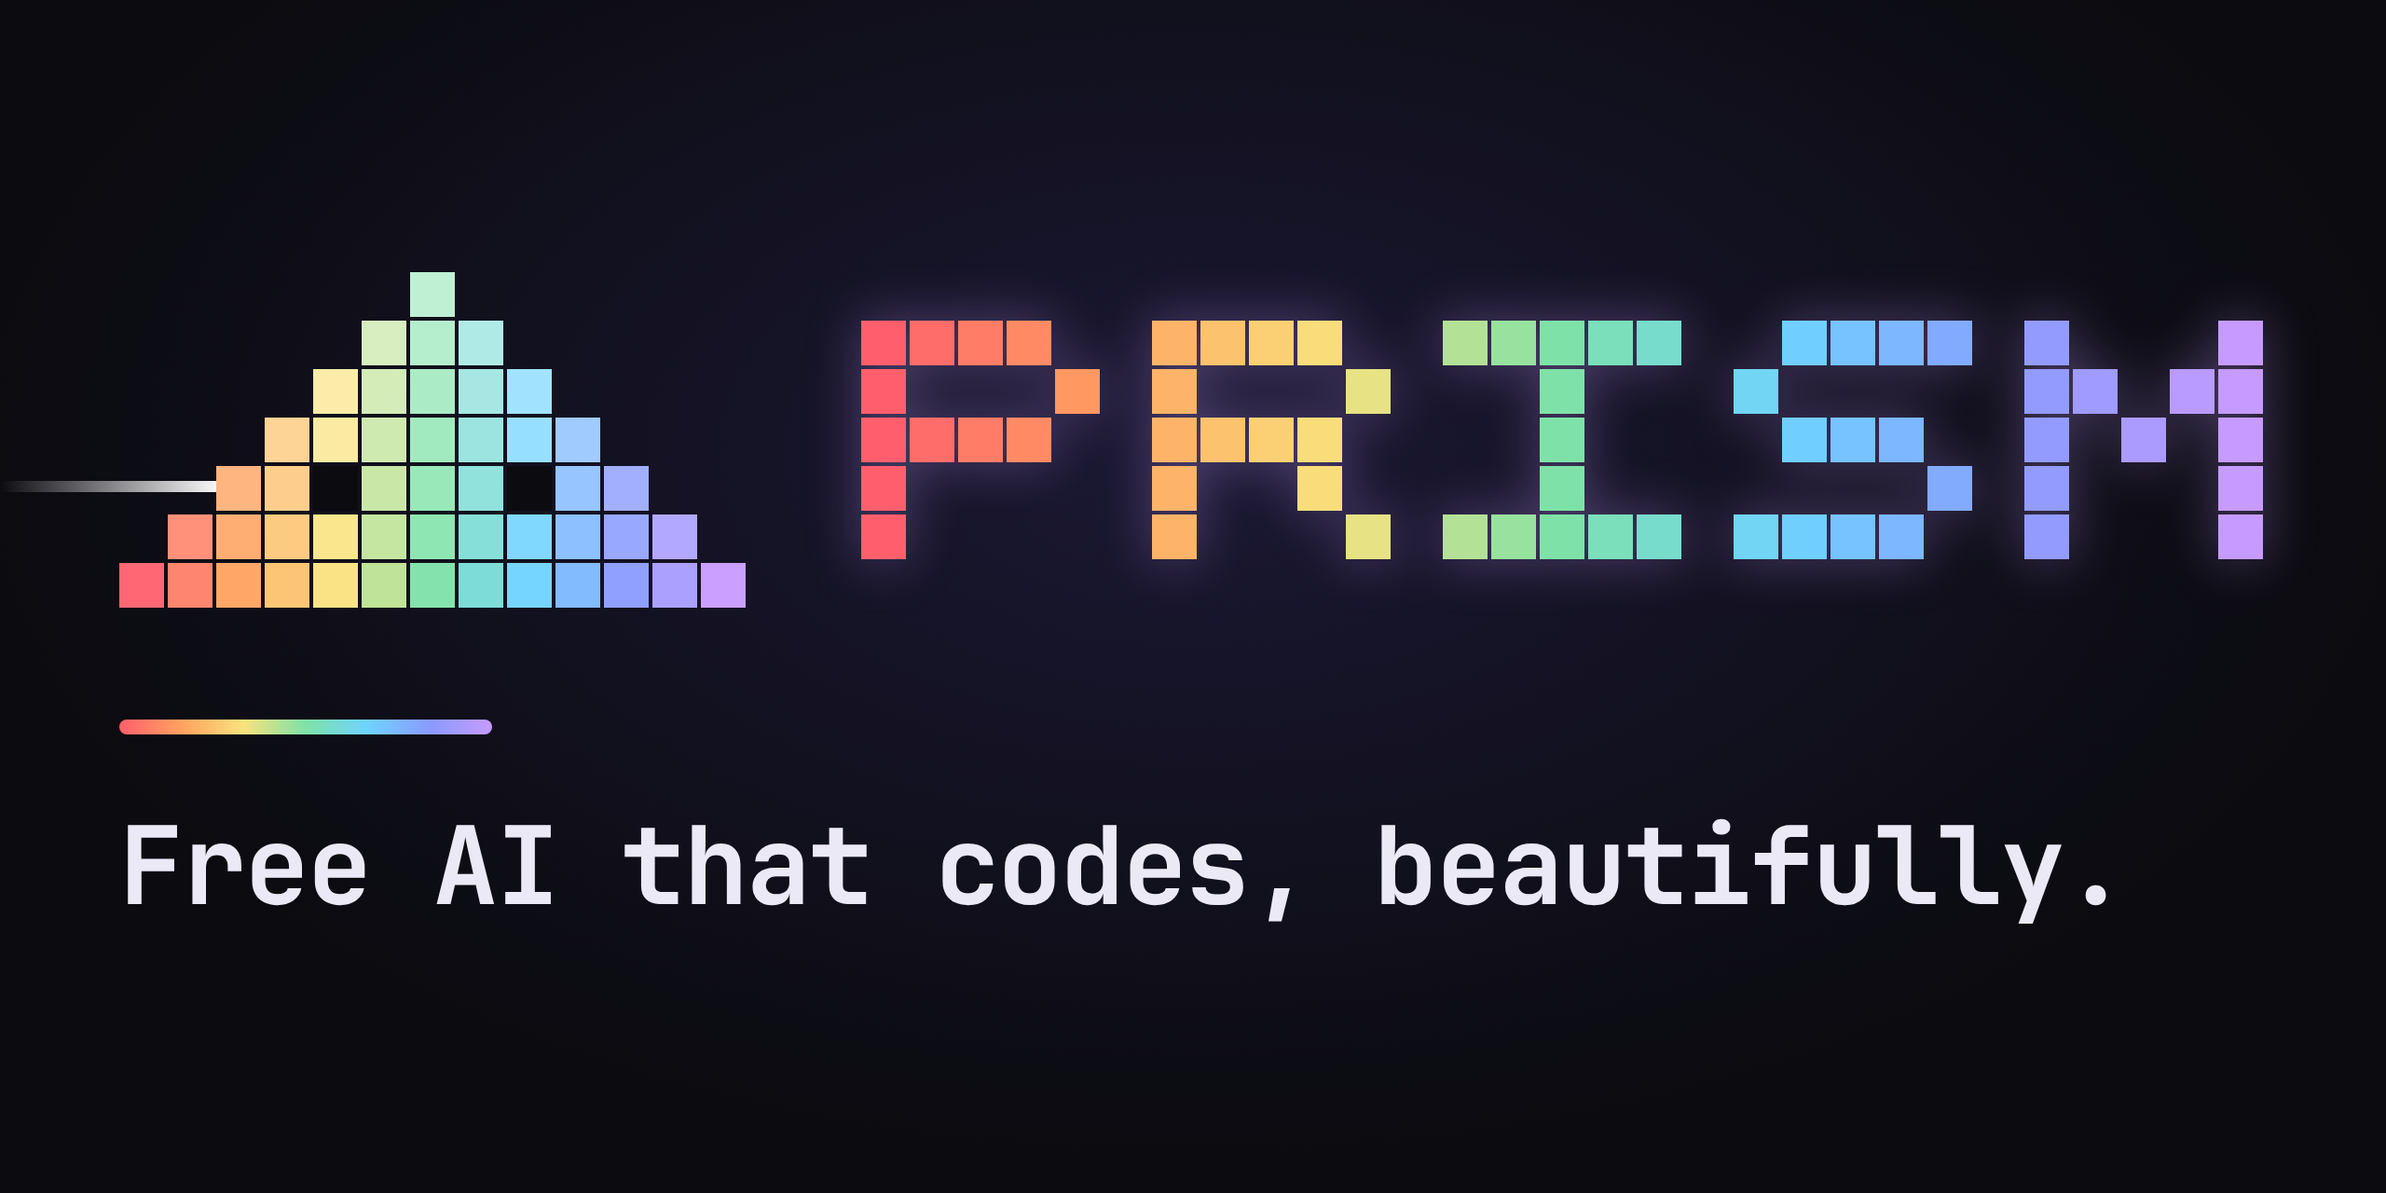
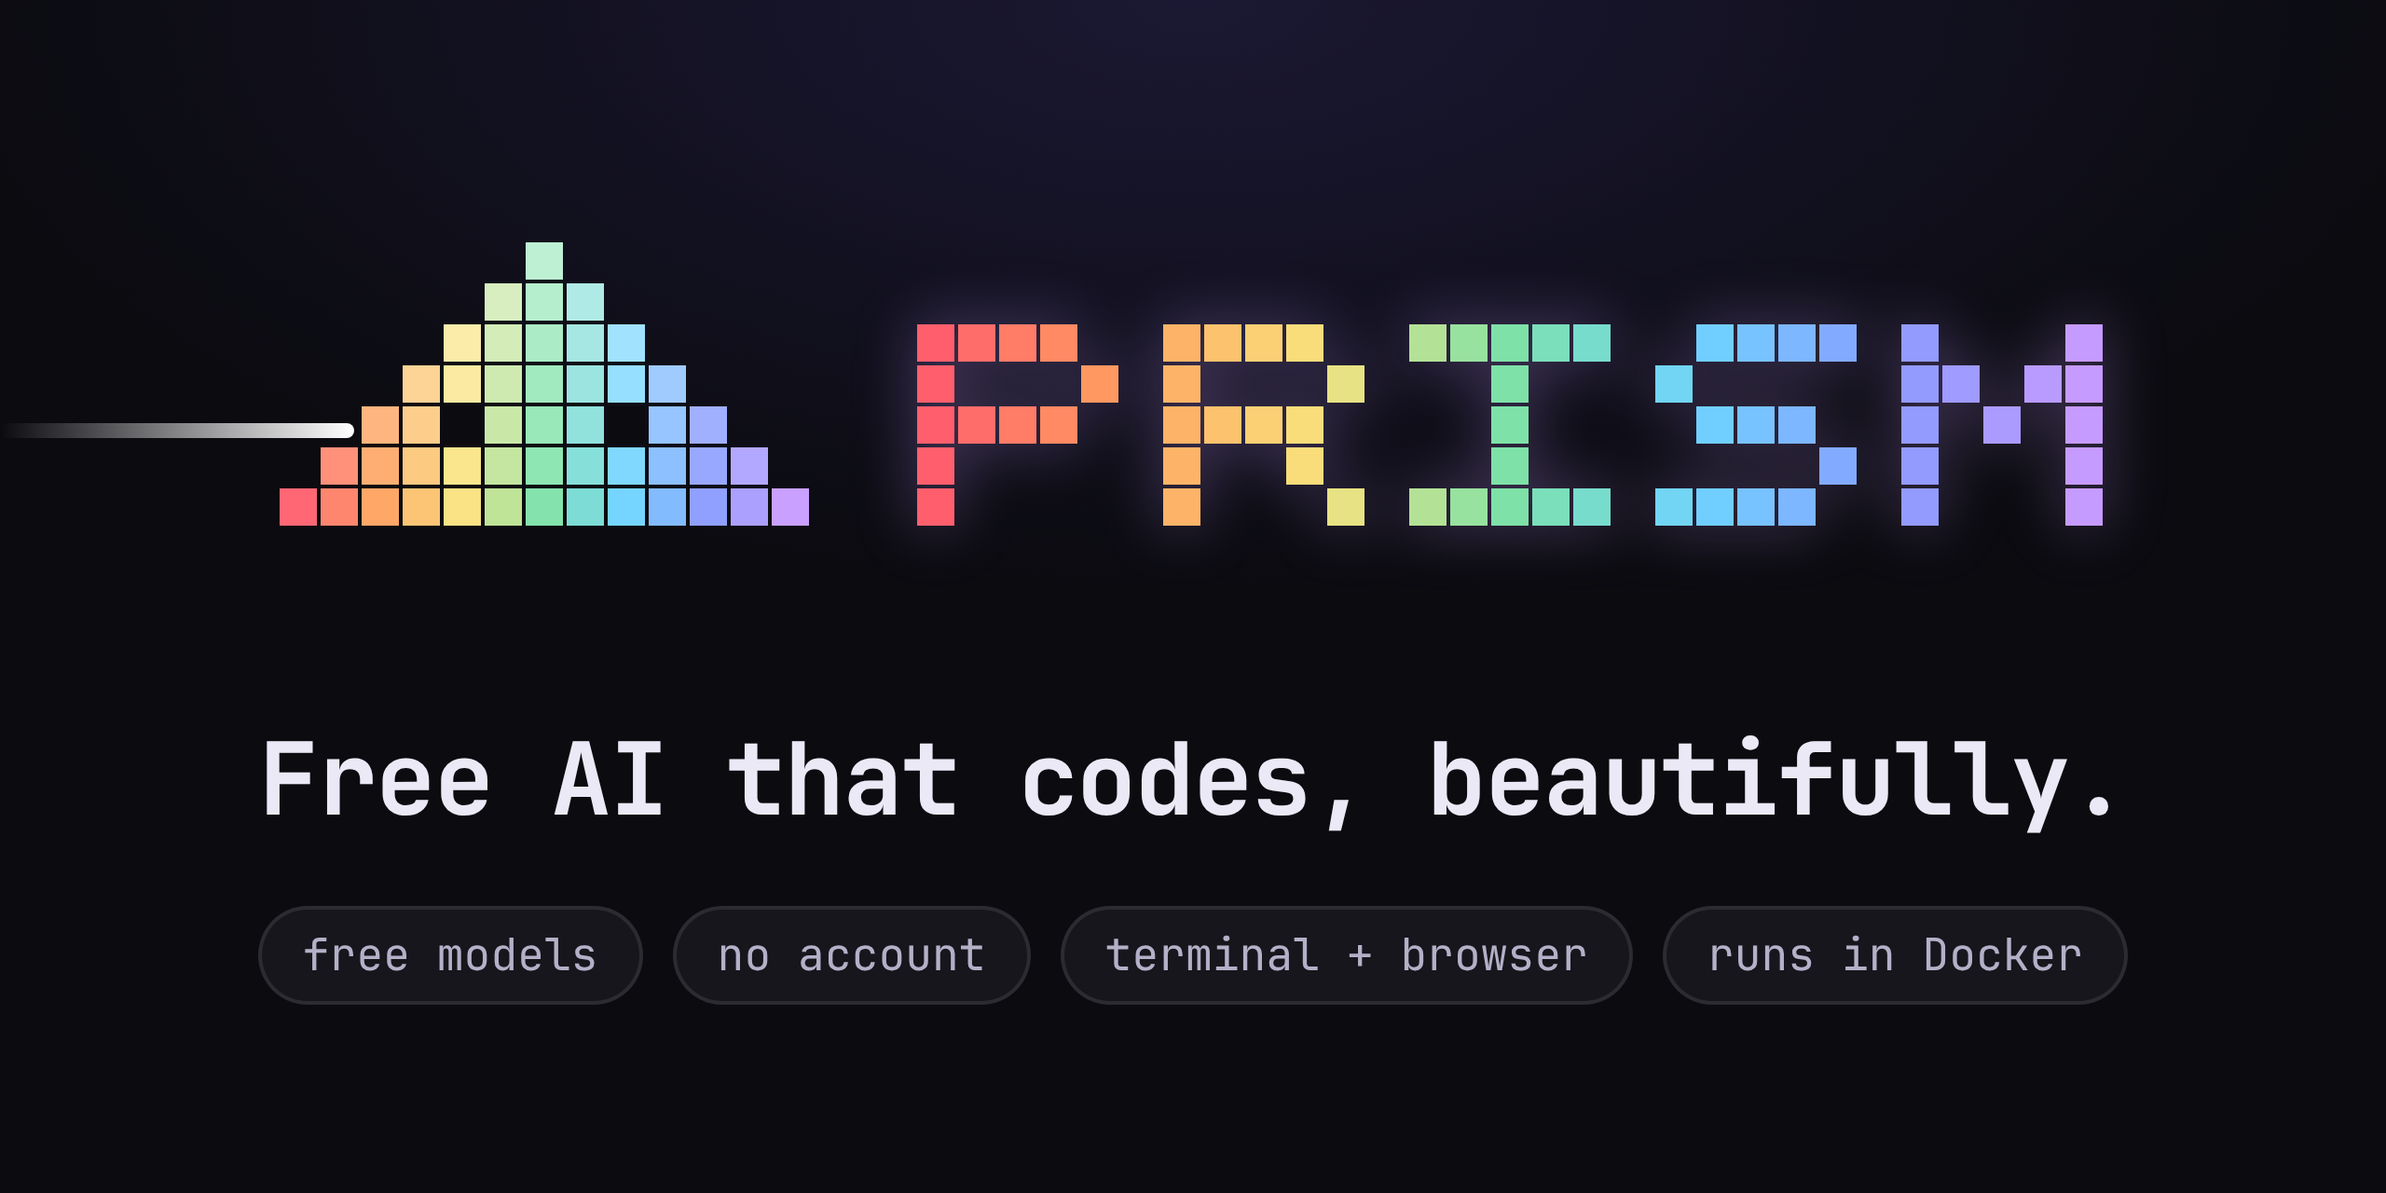
chore(release): 0.4.1
- date the changelog section for 0.4.1
- redraw the link preview image to match the new header

Changed region(s): [[0.0, 0.1875, 0.9688, 0.5625], [0.0312, 0.5938, 0.9062, 0.8438]]

diff --git a/docs/graphics/social.html b/docs/graphics/social.html
@@ -3,23 +3,29 @@
 <title>Prism</title>
 <style>
 * { box-sizing: border-box; margin: 0; }
-html, body { width: 1280px; height: 640px; overflow: hidden; background: #0b0b10; }
-body { position: relative; background: radial-gradient(900px 520px at 50% 38%, #1b1833, #0b0b10 72%);
-  font-family: 'JetBrains Mono', 'JetBrainsMono Nerd Font', 'JetBrainsMono NF', ui-monospace, monospace; color: #ece9f6; }
+html { background: transparent; }
+body { position: relative; width: 1280px; height: 640px; overflow: hidden; border-radius: 28px; border: 2px solid rgba(236,233,246,.10);
+  background: radial-gradient(900px 420px at 50% 0%, #1b1833, #0b0b10 75%); color: #ece9f6;
+  font: 500 24px/1.2 'JetBrains Mono', 'JetBrainsMono Nerd Font', 'JetBrainsMono NF', ui-monospace, monospace; }
 .px { display: grid; gap: 2px; position: absolute; }
 .px i { display: block; }
-#shard { left: 64px; top: 146px; }
-#shard::before, #shard::after { content: ''; position: absolute; width: 24px; height: 24px; background: #0b0b10; top: 104px; }
-#shard::before { left: 104px; } #shard::after { left: 208px; }
-#word { left: 462px; top: 172px; filter: drop-shadow(0 0 14px rgba(198,155,255,.35)); }
-.beam { position: absolute; left: 0; top: 258px; width: 120px; height: 6px; border-radius: 3px; background: linear-gradient(90deg, rgba(255,255,255,0), #fff); }
-.rule { position: absolute; left: 64px; top: 386px; width: 200px; height: 8px; border-radius: 4px; background: linear-gradient(90deg, #ff5f6d, #ffa25f, #f9e27d, #7ee2a8, #6fd3ff, #8a9bff, #c69bff); }
-.tag { position: absolute; left: 64px; right: 64px; top: 426px; font-size: 58px; font-weight: 800; letter-spacing: -.02em; white-space: nowrap; }
+.muted { color: #b4b0c8; }
+
+body { border: 0; border-radius: 0; }
+#shard { left: 150px; top: 130px; }
+#shard::before, #shard::after { content: ''; position: absolute; width: 20px; height: 20px; background: #0b0b10; top: 88px; }
+#shard::before { left: 88px; } #shard::after { left: 176px; }
+#word { left: 492px; top: 174px; filter: drop-shadow(0 0 16px rgba(198,155,255,.35)); }
+.beam { position: absolute; left: 0; top: 227px; width: 190px; height: 8px; border-radius: 4px;
+  background: linear-gradient(90deg, rgba(255,255,255,0), #fff); }
+.tag { position: absolute; left: 0; right: 0; top: 386px; text-align: center; font-size: 54px; font-weight: 800; letter-spacing: -.02em; }
+.chips { position: absolute; left: 0; right: 0; top: 486px; display: flex; justify-content: center; gap: 16px; }
+.chips span { padding: 10px 22px; border-radius: 999px; border: 2px solid rgba(236,233,246,.10); background: rgba(236,233,246,.05); font-size: 24px; color: #b4b0c8; }
 </style>
 <body>
 <div class="beam"></div>
-<div id="shard" class="px" style="grid-template-columns:repeat(13,24px);grid-auto-rows:24px"><i></i><i></i><i></i><i></i><i></i><i></i><i style="background:#bef0d4"></i><i></i><i></i><i></i><i></i><i></i><i></i><i></i><i></i><i></i><i></i><i></i><i style="background:#d8eec0"></i><i style="background:#b5eecd"></i><i style="background:#b0eae6"></i><i></i><i></i><i></i><i></i><i></i><i></i><i></i><i></i><i></i><i style="background:#fbecaa"></i><i style="background:#d3ecb8"></i><i style="background:#abecc6"></i><i style="background:#a6e7e3"></i><i style="background:#a1e2ff"></i><i></i><i></i><i></i><i></i><i></i><i></i><i></i><i style="background:#fdd396"></i><i style="background:#fbeaa1"></i><i style="background:#ceeab0"></i><i style="background:#a1eac0"></i><i style="background:#9ce4e0"></i><i style="background:#97dfff"></i><i style="background:#a0cbff"></i><i></i><i></i><i></i><i></i><i></i><i style="background:#ffb57f"></i><i style="background:#fdce8b"></i><i style="background:#fae897"></i><i style="background:#c9e8a8"></i><i style="background:#98e8b9"></i><i style="background:#91e1dd"></i><i style="background:#8cdcff"></i><i style="background:#96c5ff"></i><i style="background:#a1afff"></i><i></i><i></i><i></i><i style="background:#ff9079"></i><i style="background:#ffae73"></i><i style="background:#fcca80"></i><i style="background:#fae68d"></i><i style="background:#c4e6a0"></i><i style="background:#8ee6b3"></i><i style="background:#87dfd9"></i><i style="background:#81d8ff"></i><i style="background:#8cc0ff"></i><i style="background:#99a8ff"></i><i style="background:#b3a8ff"></i><i></i><i style="background:#ff6774"></i><i style="background:#ff866e"></i><i style="background:#ffa767"></i><i style="background:#fcc575"></i><i style="background:#f9e384"></i><i style="background:#bfe397"></i><i style="background:#84e3ac"></i><i style="background:#7ddcd6"></i><i style="background:#76d5ff"></i><i style="background:#83bbff"></i><i style="background:#90a0ff"></i><i style="background:#aca0ff"></i><i style="background:#c9a0ff"></i></div>
-<div id="word" class="px" style="grid-template-columns:repeat(29,24px);grid-auto-rows:24px"><i style="background:#ff5f6d"></i><i style="background:#ff6d6a"></i><i style="background:#ff7c67"></i><i style="background:#ff8a64"></i><i></i><i></i><i style="background:#fdb468"></i><i style="background:#fcc26e"></i><i style="background:#fbd074"></i><i style="background:#f9dd7b"></i><i></i><i></i><i style="background:#b3e296"></i><i style="background:#98e29f"></i><i style="background:#7ee2a8"></i><i style="background:#7bdfbb"></i><i style="background:#78dccd"></i><i></i><i></i><i style="background:#71cfff"></i><i style="background:#77c3ff"></i><i style="background:#7cb7ff"></i><i style="background:#82abff"></i><i></i><i style="background:#939bff"></i><i></i><i></i><i></i><i style="background:#c69bff"></i><i style="background:#ff5f6d"></i><i></i><i></i><i></i><i style="background:#ff9861"></i><i></i><i style="background:#fdb468"></i><i></i><i></i><i></i><i style="background:#e7e283"></i><i></i><i></i><i></i><i style="background:#7ee2a8"></i><i></i><i></i><i></i><i style="background:#71d5f3"></i><i></i><i></i><i></i><i></i><i></i><i style="background:#939bff"></i><i style="background:#9f9bff"></i><i></i><i style="background:#b99bff"></i><i style="background:#c69bff"></i><i style="background:#ff5f6d"></i><i style="background:#ff6d6a"></i><i style="background:#ff7c67"></i><i style="background:#ff8a64"></i><i></i><i></i><i style="background:#fdb468"></i><i style="background:#fcc26e"></i><i style="background:#fbd074"></i><i style="background:#f9dd7b"></i><i></i><i></i><i></i><i></i><i style="background:#7ee2a8"></i><i></i><i></i><i></i><i></i><i style="background:#71cfff"></i><i style="background:#77c3ff"></i><i style="background:#7cb7ff"></i><i></i><i></i><i style="background:#939bff"></i><i></i><i style="background:#ac9bff"></i><i></i><i style="background:#c69bff"></i><i style="background:#ff5f6d"></i><i></i><i></i><i></i><i></i><i></i><i style="background:#fdb468"></i><i></i><i></i><i style="background:#f9dd7b"></i><i></i><i></i><i></i><i></i><i style="background:#7ee2a8"></i><i></i><i></i><i></i><i></i><i></i><i></i><i></i><i style="background:#82abff"></i><i></i><i style="background:#939bff"></i><i></i><i></i><i></i><i style="background:#c69bff"></i><i style="background:#ff5f6d"></i><i></i><i></i><i></i><i></i><i></i><i style="background:#fdb468"></i><i></i><i></i><i></i><i style="background:#e7e283"></i><i></i><i style="background:#b3e296"></i><i style="background:#98e29f"></i><i style="background:#7ee2a8"></i><i style="background:#7bdfbb"></i><i style="background:#78dccd"></i><i></i><i style="background:#71d5f3"></i><i style="background:#71cfff"></i><i style="background:#77c3ff"></i><i style="background:#7cb7ff"></i><i></i><i></i><i style="background:#939bff"></i><i></i><i></i><i></i><i style="background:#c69bff"></i></div>
-<div class="rule"></div>
+<div id="shard" class="px" style="grid-template-columns:repeat(13,20px);grid-auto-rows:20px"><i></i><i></i><i></i><i></i><i></i><i></i><i style="background:#bef0d4"></i><i></i><i></i><i></i><i></i><i></i><i></i><i></i><i></i><i></i><i></i><i></i><i style="background:#d8eec0"></i><i style="background:#b5eecd"></i><i style="background:#b0eae6"></i><i></i><i></i><i></i><i></i><i></i><i></i><i></i><i></i><i></i><i style="background:#fbecaa"></i><i style="background:#d3ecb8"></i><i style="background:#abecc6"></i><i style="background:#a6e7e3"></i><i style="background:#a1e2ff"></i><i></i><i></i><i></i><i></i><i></i><i></i><i></i><i style="background:#fdd396"></i><i style="background:#fbeaa1"></i><i style="background:#ceeab0"></i><i style="background:#a1eac0"></i><i style="background:#9ce4e0"></i><i style="background:#97dfff"></i><i style="background:#a0cbff"></i><i></i><i></i><i></i><i></i><i></i><i style="background:#ffb57f"></i><i style="background:#fdce8b"></i><i style="background:#fae897"></i><i style="background:#c9e8a8"></i><i style="background:#98e8b9"></i><i style="background:#91e1dd"></i><i style="background:#8cdcff"></i><i style="background:#96c5ff"></i><i style="background:#a1afff"></i><i></i><i></i><i></i><i style="background:#ff9079"></i><i style="background:#ffae73"></i><i style="background:#fcca80"></i><i style="background:#fae68d"></i><i style="background:#c4e6a0"></i><i style="background:#8ee6b3"></i><i style="background:#87dfd9"></i><i style="background:#81d8ff"></i><i style="background:#8cc0ff"></i><i style="background:#99a8ff"></i><i style="background:#b3a8ff"></i><i></i><i style="background:#ff6774"></i><i style="background:#ff866e"></i><i style="background:#ffa767"></i><i style="background:#fcc575"></i><i style="background:#f9e384"></i><i style="background:#bfe397"></i><i style="background:#84e3ac"></i><i style="background:#7ddcd6"></i><i style="background:#76d5ff"></i><i style="background:#83bbff"></i><i style="background:#90a0ff"></i><i style="background:#aca0ff"></i><i style="background:#c9a0ff"></i></div>
+<div id="word" class="px" style="grid-template-columns:repeat(29,20px);grid-auto-rows:20px"><i style="background:#ff5f6d"></i><i style="background:#ff6d6a"></i><i style="background:#ff7c67"></i><i style="background:#ff8a64"></i><i></i><i></i><i style="background:#fdb468"></i><i style="background:#fcc26e"></i><i style="background:#fbd074"></i><i style="background:#f9dd7b"></i><i></i><i></i><i style="background:#b3e296"></i><i style="background:#98e29f"></i><i style="background:#7ee2a8"></i><i style="background:#7bdfbb"></i><i style="background:#78dccd"></i><i></i><i></i><i style="background:#71cfff"></i><i style="background:#77c3ff"></i><i style="background:#7cb7ff"></i><i style="background:#82abff"></i><i></i><i style="background:#939bff"></i><i></i><i></i><i></i><i style="background:#c69bff"></i><i style="background:#ff5f6d"></i><i></i><i></i><i></i><i style="background:#ff9861"></i><i></i><i style="background:#fdb468"></i><i></i><i></i><i></i><i style="background:#e7e283"></i><i></i><i></i><i></i><i style="background:#7ee2a8"></i><i></i><i></i><i></i><i style="background:#71d5f3"></i><i></i><i></i><i></i><i></i><i></i><i style="background:#939bff"></i><i style="background:#9f9bff"></i><i></i><i style="background:#b99bff"></i><i style="background:#c69bff"></i><i style="background:#ff5f6d"></i><i style="background:#ff6d6a"></i><i style="background:#ff7c67"></i><i style="background:#ff8a64"></i><i></i><i></i><i style="background:#fdb468"></i><i style="background:#fcc26e"></i><i style="background:#fbd074"></i><i style="background:#f9dd7b"></i><i></i><i></i><i></i><i></i><i style="background:#7ee2a8"></i><i></i><i></i><i></i><i></i><i style="background:#71cfff"></i><i style="background:#77c3ff"></i><i style="background:#7cb7ff"></i><i></i><i></i><i style="background:#939bff"></i><i></i><i style="background:#ac9bff"></i><i></i><i style="background:#c69bff"></i><i style="background:#ff5f6d"></i><i></i><i></i><i></i><i></i><i></i><i style="background:#fdb468"></i><i></i><i></i><i style="background:#f9dd7b"></i><i></i><i></i><i></i><i></i><i style="background:#7ee2a8"></i><i></i><i></i><i></i><i></i><i></i><i></i><i></i><i style="background:#82abff"></i><i></i><i style="background:#939bff"></i><i></i><i></i><i></i><i style="background:#c69bff"></i><i style="background:#ff5f6d"></i><i></i><i></i><i></i><i></i><i></i><i style="background:#fdb468"></i><i></i><i></i><i></i><i style="background:#e7e283"></i><i></i><i style="background:#b3e296"></i><i style="background:#98e29f"></i><i style="background:#7ee2a8"></i><i style="background:#7bdfbb"></i><i style="background:#78dccd"></i><i></i><i style="background:#71d5f3"></i><i style="background:#71cfff"></i><i style="background:#77c3ff"></i><i style="background:#7cb7ff"></i><i></i><i></i><i style="background:#939bff"></i><i></i><i></i><i></i><i style="background:#c69bff"></i></div>
 <div class="tag">Free AI that codes, beautifully.</div>
+<div class="chips"><span>free models</span><span>no account</span><span>terminal + browser</span><span>runs in Docker</span></div>
 </body></html>

diff --git a/bench/charts.py b/bench/charts.py
@@ -214,30 +214,31 @@ def spectrum_at(t):
 
 
 def social():
-    logo = ["####..####..#####..####.#...#", "#...#.#...#...#...#.....##.##", "####..####....#....###..#.#.#", "#.....#..#....#.......#.#...#", "#.....#...#.#####.####..#...#"]
-    body = ["......#......", ".....###.....", "....#####....", "...#######...", "..#########..", ".###########.", "#############"]
+    t = THEMES["dark"]
+    ink = t["ink"]
+    size, step = 20, 22
 
     def shard(x, y):
-        pale = max(0.0, 0.5 - y * 0.075)
-        return blend(spectrum_at(x / 12), "#ffffff", pale)
+        return blend(blend(spectrum_at(x / 12), "#ffffff", max(0.0, 0.5 - y * 0.075)), "#2a2140", ink)
 
-    shard_html = pixel_grid(body, 24, shard, "shard")
-    word_html = pixel_grid(logo, 24, lambda x, y: spectrum_at(x / 28), "word")
-    css = """
-* { box-sizing: border-box; margin: 0; }
-html, body { width: 1280px; height: 640px; overflow: hidden; background: #0b0b10; }
-body { position: relative; background: radial-gradient(900px 520px at 50% 38%, #1b1833, #0b0b10 72%);
-  font-family: 'JetBrains Mono', 'JetBrainsMono Nerd Font', 'JetBrainsMono NF', ui-monospace, monospace; color: #ece9f6; }
-.px { display: grid; gap: 2px; position: absolute; }
-.px i { display: block; }
-#shard { left: 64px; top: 146px; }
-#shard::before, #shard::after { content: ''; position: absolute; width: 24px; height: 24px; background: #0b0b10; top: 104px; }
-#shard::before { left: 104px; } #shard::after { left: 208px; }
-#word { left: 462px; top: 172px; filter: drop-shadow(0 0 14px rgba(198,155,255,.35)); }
-.beam { position: absolute; left: 0; top: 258px; width: 120px; height: 6px; border-radius: 3px; background: linear-gradient(90deg, rgba(255,255,255,0), #fff); }
-.rule { position: absolute; left: 64px; top: 386px; width: 200px; height: 8px; border-radius: 4px; background: __RAINBOW__; }
-.tag { position: absolute; left: 64px; right: 64px; top: 426px; font-size: 58px; font-weight: 800; letter-spacing: -.02em; white-space: nowrap; }
-""".replace("__RAINBOW__", RAINBOW)
+    shard_left, top = 150, 130
+    word_left = shard_left + 13 * step + 56
+    shard_html = pixel_grid(SHARD, size, shard, "shard")
+    word_html = pixel_grid(LOGO, size, lambda x, y: blend(spectrum_at(x / 28), "#2a2140", ink), "word")
+    eye = 4 * step
+    chips = "".join(f"<span>{esc(c)}</span>" for c in ("free models", "no account", "terminal + browser", "runs in Docker"))
+    css = themed_css(t, 1280, 640) + f"""
+body {{ border: 0; border-radius: 0; }}
+#shard {{ left: {shard_left}px; top: {top}px; }}
+#shard::before, #shard::after {{ content: ''; position: absolute; width: {size}px; height: {size}px; background: {t["eye"]}; top: {eye}px; }}
+#shard::before {{ left: {eye}px; }} #shard::after {{ left: {2 * eye}px; }}
+#word {{ left: {word_left}px; top: {top + 2 * step}px; filter: drop-shadow(0 0 16px rgba(198,155,255,.35)); }}
+.beam {{ position: absolute; left: 0; top: {top + 4 * step + 9}px; width: {shard_left + 2 * step - 4}px; height: 8px; border-radius: 4px;
+  background: linear-gradient(90deg, rgba(255,255,255,0), #fff); }}
+.tag {{ position: absolute; left: 0; right: 0; top: 386px; text-align: center; font-size: 54px; font-weight: 800; letter-spacing: -.02em; }}
+.chips {{ position: absolute; left: 0; right: 0; top: 486px; display: flex; justify-content: center; gap: 16px; }}
+.chips span {{ padding: 10px 22px; border-radius: 999px; border: 2px solid {t["line"]}; background: {t["chip"]}; font-size: 24px; color: {t["muted"]}; }}
+"""
     doc = f"""<!doctype html>
 <html lang="en"><meta charset="utf-8">
 <title>Prism</title>
@@ -246,8 +247,8 @@ body { position: relative; background: radial-gradient(900px 520px at 50% 38%, #
 <div class="beam"></div>
 {shard_html}
 {word_html}
-<div class="rule"></div>
 <div class="tag">Free AI that codes, beautifully.</div>
+<div class="chips">{chips}</div>
 </body></html>
 """
     return "social.html", doc, 640

diff --git a/CHANGELOG.md b/CHANGELOG.md
@@ -1,6 +1,6 @@
 # Changelog
 
-## Unreleased
+## 0.4.1 (2026-10-31)
 
 ### New
 
